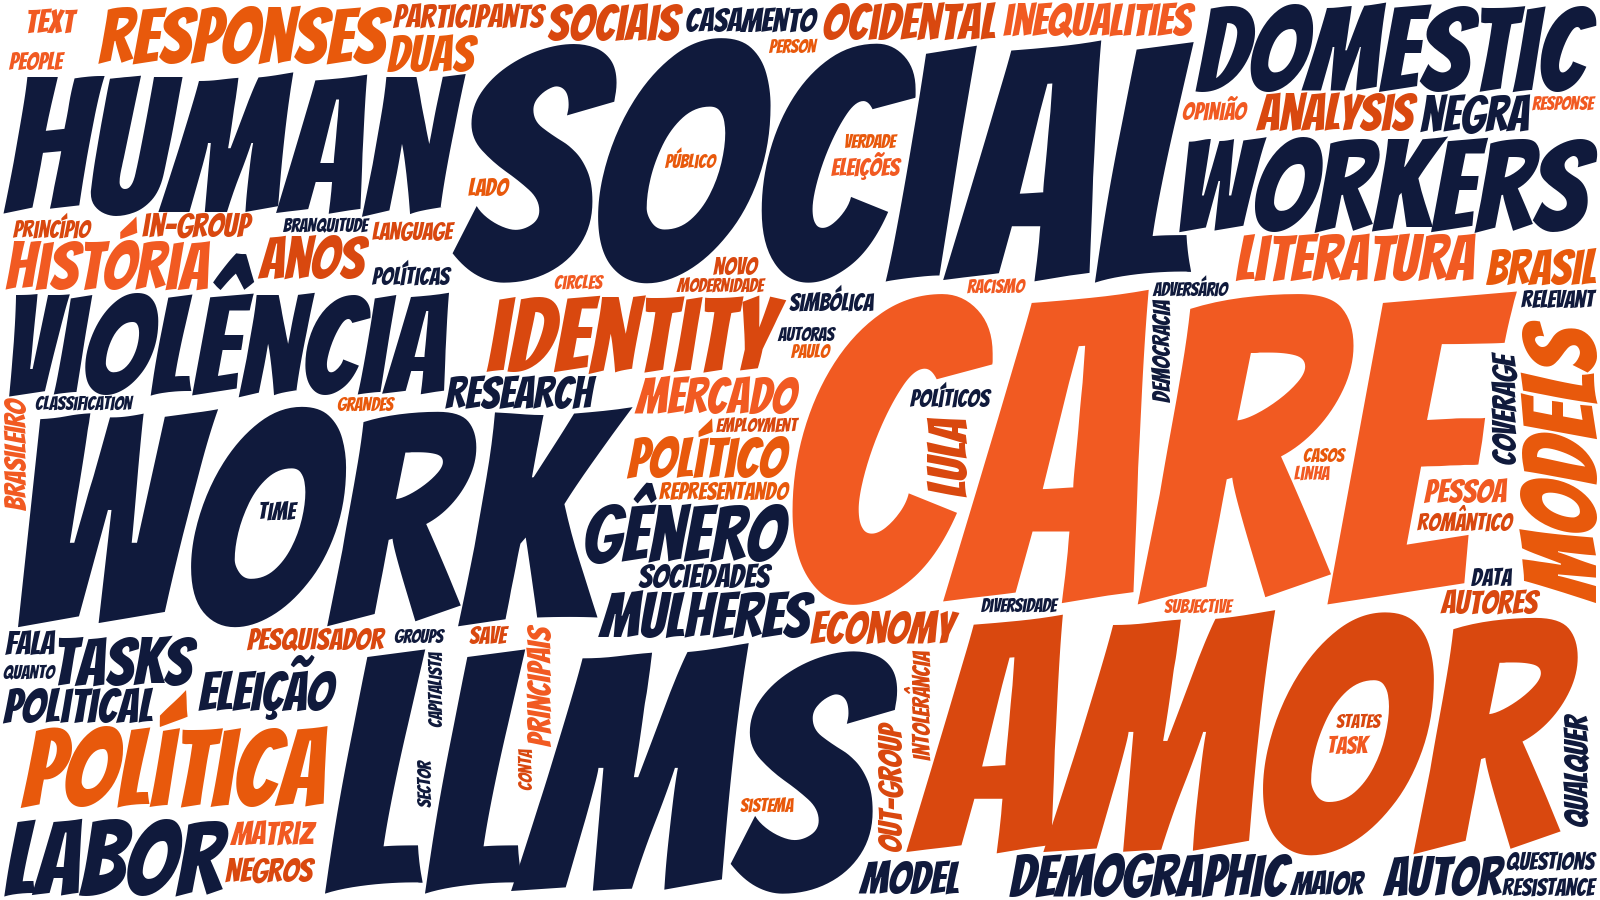
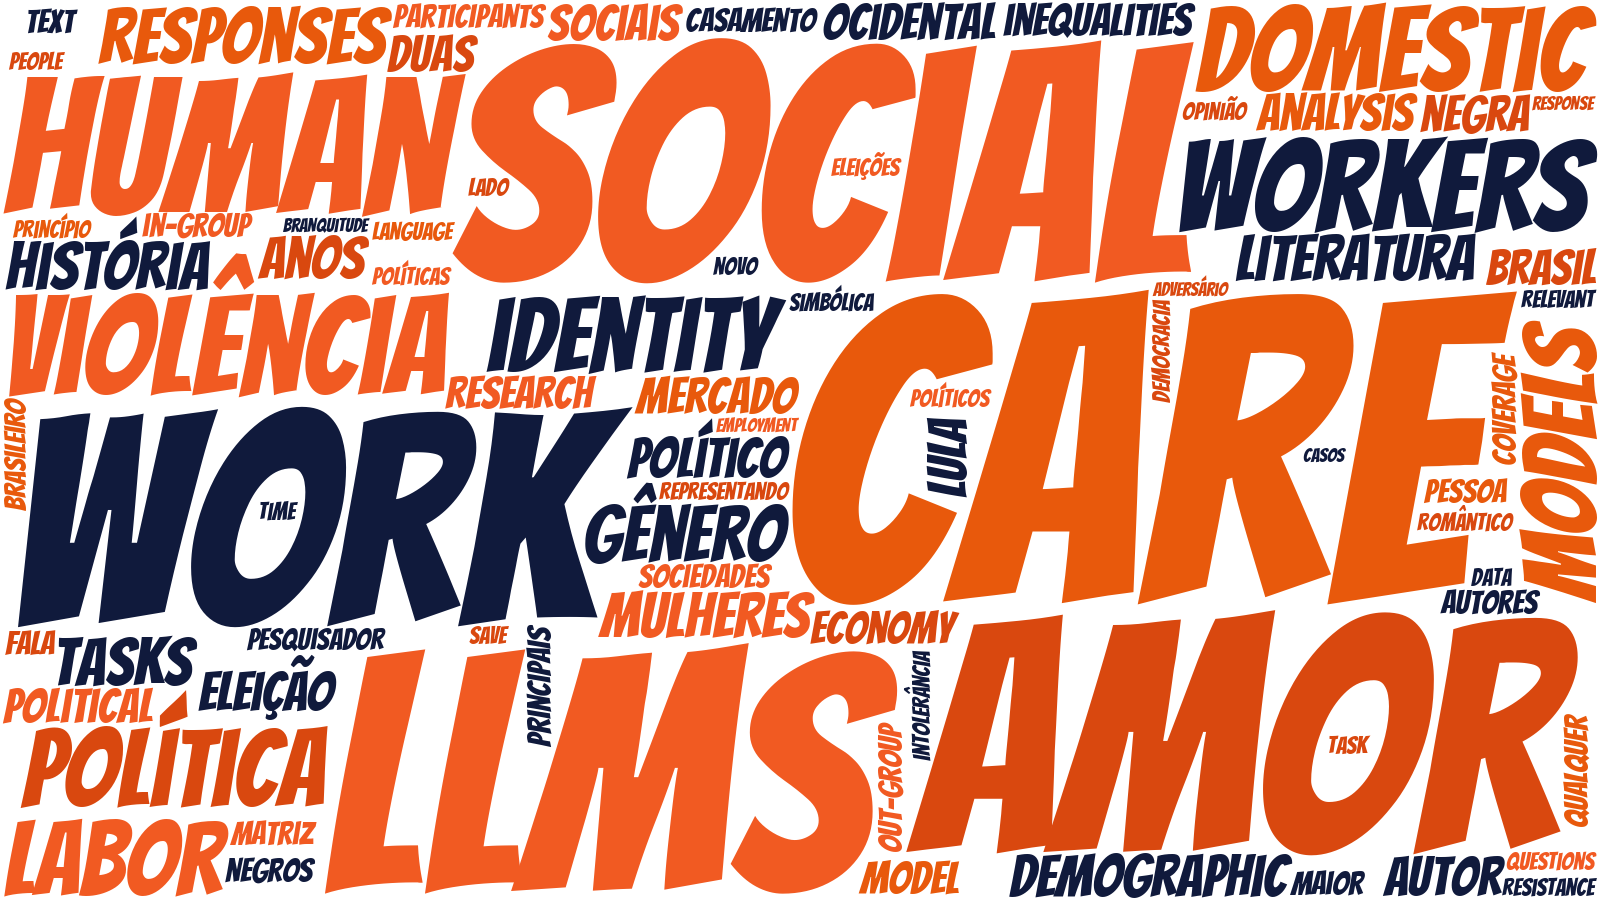
Transforma a nuvem de palavras em 3D com three.js

diff --git a/index.html b/index.html
@@ -90,6 +90,15 @@ body {
   padding: 18px;
 }
 .painel img { display: block; width: 100%; height: auto; }
+.nuvem3d { padding: 0; overflow: hidden; }
+.palco { width: 100%; aspect-ratio: 16 / 9; cursor: grab; touch-action: pan-y; }
+.palco:active { cursor: grabbing; }
+.palco canvas { display: block; width: 100% !important; height: 100% !important; }
+.nuvem3d .reserva { display: none; padding: 18px; }
+.nuvem3d.sem-3d .palco, .nuvem3d.sem-3d .info { display: none; }
+.nuvem3d.sem-3d .reserva { display: block; }
+.info { margin: 0; padding: 10px 16px; border-top: 4px solid var(--navy); background: var(--navy); color: var(--cream); font-weight: 700; font-size: .95rem; text-align: center; min-height: 2.9em; }
+.info b { color: var(--sun); font-family: var(--font-title); font-weight: 400; font-size: 1.25rem; letter-spacing: .03em; }
 
 .temas {
   display: grid;
@@ -128,6 +137,8 @@ body {
   .titulo { -webkit-text-stroke-width: 5px; text-shadow: 3px 3px 0 var(--navy); }
   .painel { padding: 10px; box-shadow: 6px 6px 0 var(--navy); border-width: 4px; }
   .abertura { min-height: 320px; }
+  .palco { aspect-ratio: 1 / 1; }
+  .nuvem3d .reserva { padding: 10px; }
 }
 </style>
 </head>
@@ -169,8 +180,10 @@ body {
 
   <section aria-labelledby="t-nuvem">
     <h2 id="t-nuvem" class="titulo medio">Todos os textos juntos</h2>
-    <div class="painel">
-      <img src="nuvem_palavras.png" alt="Nuvem de palavras com os termos mais frequentes dos seis textos. Em maior destaque: care, social, work, amor, llms, human, workers, domestic, violência e política.">
+    <div class="painel nuvem3d sem-3d" id="nuvem3d">
+      <div class="palco" role="img" aria-label="Nuvem de palavras em 3D. Arraste para girar."></div>
+      <img class="reserva" src="nuvem_palavras.png" alt="Nuvem de palavras com os termos mais frequentes dos seis textos. Em maior destaque: care, social, work, amor, llms, human, workers, domestic, violência e política.">
+      <p class="info" id="info" aria-live="polite">Arraste para girar. Passe o mouse ou toque numa palavra para ver o peso.</p>
     </div>
   </section>
 
@@ -215,5 +228,166 @@ body {
   <p class="nota">Como foi feita: palavras comuns em português e inglês, seções de referências e texto de interface das páginas da Folha foram removidos. Cada texto tem o mesmo peso (frequência relativa), para que os artigos longos não dominem. Sobrenomes dos autores dos artigos sobre LLMs foram ignorados. Formas diferentes da mesma palavra, como "cuidado" e "cuidados", contam separadamente, e os textos em português e inglês aparecem juntos.</p>
 
 </main>
+
+<script type="importmap">
+{ "imports": {
+  "three": "https://cdn.jsdelivr.net/npm/three@0.160.0/build/three.module.js",
+  "three/addons/": "https://cdn.jsdelivr.net/npm/three@0.160.0/examples/jsm/"
+} }
+</script>
+<script type="module">
+import * as THREE from "three";
+import { OrbitControls } from "three/addons/controls/OrbitControls.js";
+
+const PALAVRAS = [{"t": "care", "p": 9.47}, {"t": "llms", "p": 5.33}, {"t": "social", "p": 5.16}, {"t": "amor", "p": 5.07}, {"t": "work", "p": 4.13}, {"t": "human", "p": 3.89}, {"t": "violência", "p": 3.77}, {"t": "workers", "p": 3.72}, {"t": "domestic", "p": 3.51}, {"t": "política", "p": 2.99}, {"t": "labor", "p": 2.7}, {"t": "identity", "p": 2.69}, {"t": "models", "p": 2.64}, {"t": "gênero", "p": 2.61}, {"t": "responses", "p": 2.59}, {"t": "história", "p": 2.43}, {"t": "tasks", "p": 2.38}, {"t": "literatura", "p": 2.34}, {"t": "mulheres", "p": 2.32}, {"t": "demographic", "p": 2.2}, {"t": "anos", "p": 2.16}, {"t": "político", "p": 2.16}, {"t": "eleição", "p": 2.11}, {"t": "lula", "p": 2.11}, {"t": "autor", "p": 2.08}, {"t": "analysis", "p": 1.87}, {"t": "ocidental", "p": 1.83}, {"t": "negra", "p": 1.83}, {"t": "mercado", "p": 1.83}, {"t": "sociais", "p": 1.82}, {"t": "duas", "p": 1.8}, {"t": "brasil", "p": 1.73}, {"t": "political", "p": 1.67}, {"t": "inequalities", "p": 1.65}, {"t": "economy", "p": 1.65}, {"t": "research", "p": 1.65}, {"t": "model", "p": 1.65}, {"t": "participants", "p": 1.55}, {"t": "text", "p": 1.55}, {"t": "sociedades", "p": 1.54}, {"t": "casamento", "p": 1.54}, {"t": "out-group", "p": 1.51}, {"t": "in-group", "p": 1.51}, {"t": "coverage", "p": 1.48}, {"t": "negros", "p": 1.47}, {"t": "qualquer", "p": 1.43}, {"t": "autores", "p": 1.42}, {"t": "matriz", "p": 1.4}, {"t": "pessoa", "p": 1.38}, {"t": "maior", "p": 1.38}, {"t": "principais", "p": 1.38}, {"t": "fala", "p": 1.37}, {"t": "pesquisador", "p": 1.37}, {"t": "brasileiro", "p": 1.37}, {"t": "romântico", "p": 1.35}, {"t": "time", "p": 1.34}, {"t": "questions", "p": 1.34}, {"t": "resistance", "p": 1.34}, {"t": "políticas", "p": 1.33}, {"t": "task", "p": 1.33}, {"t": "save", "p": 1.33}, {"t": "representando", "p": 1.33}, {"t": "novo", "p": 1.33}, {"t": "simbólica", "p": 1.3}, {"t": "people", "p": 1.29}, {"t": "data", "p": 1.29}, {"t": "políticos", "p": 1.29}, {"t": "intolerância", "p": 1.29}, {"t": "opinião", "p": 1.29}, {"t": "language", "p": 1.27}, {"t": "lado", "p": 1.26}, {"t": "relevant", "p": 1.26}, {"t": "princípio", "p": 1.24}, {"t": "democracia", "p": 1.24}, {"t": "eleições", "p": 1.24}, {"t": "adversário", "p": 1.24}, {"t": "casos", "p": 1.24}, {"t": "employment", "p": 1.24}, {"t": "response", "p": 1.21}, {"t": "branquitude", "p": 1.21}];
+const CORES = ["#101a3c", "#f15a22", "#d9480f", "#101a3c", "#e8590c"];
+const caixa = document.getElementById("nuvem3d");
+const palco = caixa.querySelector(".palco");
+const info = document.getElementById("info");
+const TEXTO_INFO = info.textContent;
+
+function temWebGL() {
+  try {
+    const c = document.createElement("canvas");
+    return !!(c.getContext("webgl2") || c.getContext("webgl"));
+  } catch (e) { return false; }
+}
+
+// Desenha a palavra num canvas, no estilo dos títulos (contorno branco)
+function textura(texto, cor) {
+  const fonte = "96px Bangers, Impact, sans-serif";
+  const c = document.createElement("canvas");
+  const ctx = c.getContext("2d");
+  ctx.font = fonte;
+  const larg = Math.ceil(ctx.measureText(texto).width) + 36;
+  c.width = larg; c.height = 128;
+  ctx.font = fonte;
+  ctx.textAlign = "center";
+  ctx.textBaseline = "middle";
+  ctx.lineJoin = "round";
+  ctx.lineWidth = 12;
+  ctx.strokeStyle = "#ffffff";
+  ctx.strokeText(texto, larg / 2, 68);
+  ctx.fillStyle = cor;
+  ctx.fillText(texto, larg / 2, 68);
+  const t = new THREE.CanvasTexture(c);
+  t.colorSpace = THREE.SRGBColorSpace;
+  t.anisotropy = 4;
+  return t;
+}
+
+async function iniciar() {
+  try { await document.fonts.load("96px Bangers"); } catch (e) {}
+
+  const renderer = new THREE.WebGLRenderer({ antialias: true, alpha: true });
+  renderer.setPixelRatio(Math.min(window.devicePixelRatio || 1, 2));
+  palco.appendChild(renderer.domElement);
+  caixa.classList.remove("sem-3d");
+
+  const cena = new THREE.Scene();
+  const camera = new THREE.PerspectiveCamera(45, 16 / 9, 0.1, 200);
+  camera.position.set(0, 0, 27);
+
+  const controles = new OrbitControls(camera, renderer.domElement);
+  controles.enableZoom = false;
+  controles.enablePan = false;
+  controles.enableDamping = true;
+  controles.dampingFactor = 0.08;
+  const calmo = window.matchMedia("(prefers-reduced-motion: reduce)").matches;
+  controles.autoRotate = !calmo;
+  controles.autoRotateSpeed = 0.9;
+
+  // Distribuição em esfera (espiral de Fibonacci), com as palavras grandes espalhadas
+  const N = PALAVRAS.length;
+  const maxP = PALAVRAS[0].p;
+  const minP = PALAVRAS[N - 1].p;
+  let passo = 37;
+  const mdc = (a, b) => (b ? mdc(b, a % b) : a);
+  while (mdc(passo, N) !== 1) passo++;
+  const R = 11.5;
+  const sprites = [];
+  const grupo = new THREE.Group();
+  cena.add(grupo);
+  PALAVRAS.forEach((w, i) => {
+    const rel = maxP > minP ? (w.p - minP) / (maxP - minP) : 1;
+    const alt = 0.5 + 2.3 * Math.sqrt(rel);
+    const tex = textura(w.t.toUpperCase(), CORES[i % CORES.length]);
+    const mat = new THREE.SpriteMaterial({ map: tex, transparent: true, depthWrite: false });
+    const s = new THREE.Sprite(mat);
+    const asp = tex.image.width / tex.image.height;
+    s.scale.set(alt * asp, alt, 1);
+    const k = (i * passo) % N;
+    const y = 1 - ((k + 0.5) / N) * 2;
+    const r = Math.sqrt(1 - y * y);
+    const th = k * 2.399963;
+    s.position.set(Math.cos(th) * r * R * 1.3, y * R * 0.82, Math.sin(th) * r * R);
+    s.userData = { w, base: s.scale.clone() };
+    grupo.add(s);
+    sprites.push(s);
+  });
+
+  // Tamanho do palco
+  function ajustar() {
+    const w = palco.clientWidth, h = palco.clientHeight;
+    if (!w || !h) return;
+    renderer.setSize(w, h, false);
+    camera.aspect = w / h;
+    const estreito = camera.aspect < 1.2;
+    grupo.scale.set(estreito ? 0.8 : 1, estreito ? 1.38 : 1, estreito ? 0.8 : 1);
+    camera.position.setLength(estreito ? 36 : 31);
+    camera.updateProjectionMatrix();
+  }
+  new ResizeObserver(ajustar).observe(palco);
+  ajustar();
+
+  // Destaque ao passar o mouse ou tocar
+  const raio = new THREE.Raycaster();
+  const ponteiro = new THREE.Vector2();
+  let ativo = null;
+  function marcar(s) {
+    if (ativo === s) return;
+    if (ativo) ativo.scale.copy(ativo.userData.base);
+    ativo = s;
+    if (s) {
+      s.scale.copy(s.userData.base).multiplyScalar(1.3);
+      const w = s.userData.w;
+      info.innerHTML = "<b>" + w.t + "</b> · " + w.p.toLocaleString("pt-BR") +
+        " ocorrências por mil palavras (média dos 6 textos)";
+    } else {
+      info.textContent = TEXTO_INFO;
+    }
+  }
+  function apontar(ev) {
+    const r = renderer.domElement.getBoundingClientRect();
+    ponteiro.x = ((ev.clientX - r.left) / r.width) * 2 - 1;
+    ponteiro.y = -((ev.clientY - r.top) / r.height) * 2 + 1;
+    raio.setFromCamera(ponteiro, camera);
+    const achados = raio.intersectObjects(sprites, false)
+      .filter((a) => a.object.material.opacity > 0.5);
+    marcar(achados.length ? achados[0].object : null);
+  }
+  renderer.domElement.addEventListener("pointermove", apontar);
+  renderer.domElement.addEventListener("pointerdown", apontar);
+  renderer.domElement.addEventListener("pointerleave", () => marcar(null));
+
+  // Palavras do lado de trás ficam mais apagadas
+  const dir = new THREE.Vector3();
+  function quadro() {
+    controles.update();
+    dir.copy(camera.position).normalize();
+    for (const s of sprites) {
+      const d = s.position.dot(dir) / R; // -1 (atrás) a 1 (frente)
+      s.material.opacity = 0.18 + 0.82 * Math.min(1, Math.max(0, (d + 1) / 2));
+    }
+    renderer.render(cena, camera);
+  }
+  renderer.setAnimationLoop(quadro);
+}
+
+if (temWebGL()) {
+  iniciar().catch(() => caixa.classList.add("sem-3d"));
+}
+</script>
+
 </body>
 </html>
